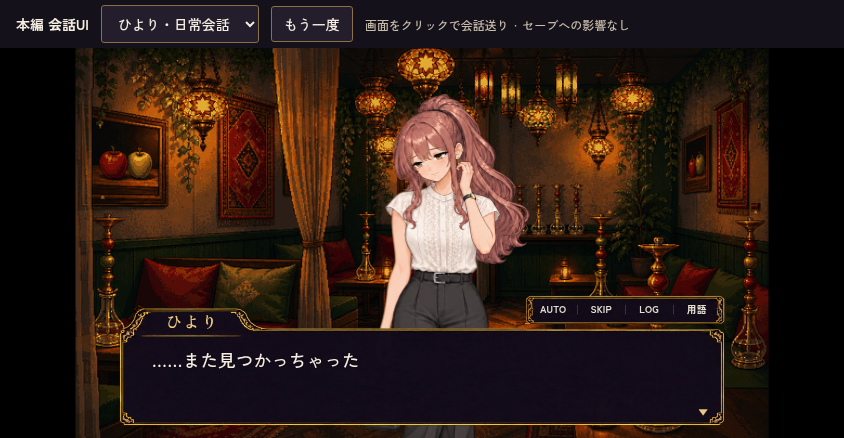
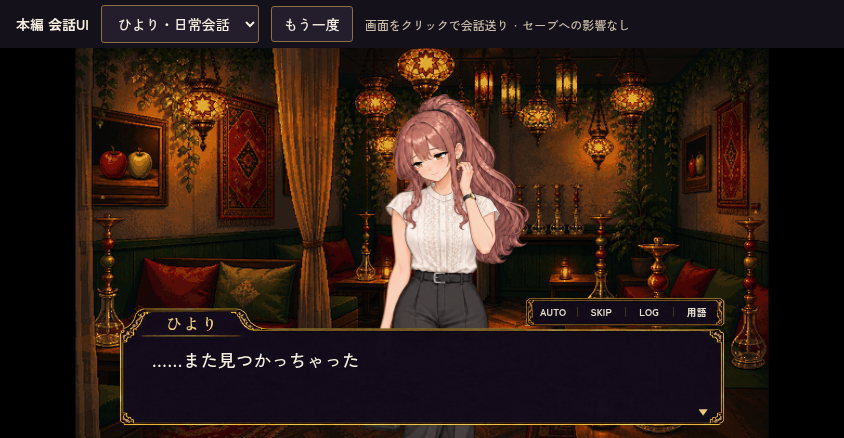
fix(vn): lower name and toolbar; make AUTO and SKIP exclusive

Changed region(s): [[0.6161, 0.653, 0.8626, 0.742], [0.1848, 0.7123, 0.2464, 0.7717]]

diff --git a/remake/js/vn/engine.js b/remake/js/vn/engine.js
@@ -67,6 +67,8 @@ function buildDom() {
   const ctl = (label, fn, test) => el("button.vn-ctl", { text: label, dataset: { test }, onclick: (e) => { e.stopPropagation(); fn(); } });
   dom.autoBtn = ctl("AUTO", () => setAuto(!autoMode), "vn-auto");
   dom.skipBtn = ctl("SKIP", () => setSkip(!skipMode), "vn-skip");
+  dom.autoBtn.setAttribute("aria-pressed", "false");
+  dom.skipBtn.setAttribute("aria-pressed", "false");
   dom.controls.append(dom.autoBtn, dom.skipBtn, ctl("LOG", openLog, "vn-log"), ctl("用語", openGlossary, "vn-glossary"));
   host.replaceChildren(dom.effect, dom.cg, dom.portraits, dom.box, dom.choices, dom.controls, dom.log);
   host.addEventListener("pointerup", (e) => {
@@ -85,11 +87,20 @@ function buildDom() {
   window.addEventListener("keyup", (e) => { if (e.key === "Control") setSkip(false); });
 }
 
-function setAuto(v) { autoMode = v; dom?.autoBtn.classList.toggle("on", v); if (v) kickAuto(); }
+function setAuto(v) {
+  if (v) setSkip(false);
+  autoMode = v;
+  dom?.autoBtn.classList.toggle("on", v);
+  dom?.autoBtn.setAttribute("aria-pressed", String(v));
+  clearTimeout(autoTimer);
+  if (v) kickAuto();
+}
 function setSkip(v) {
+  if (v) setAuto(false);
   skipMode = v;
   document.body.classList.toggle("vn-skip", v);
   dom?.skipBtn.classList.toggle("on", v);
+  dom?.skipBtn.setAttribute("aria-pressed", String(v));
   clearTimeout(autoTimer);
   if (v && running?.typing) completeTyping();
   if (v || autoMode) kickAuto();

diff --git a/remake/css/vn-lounge.css b/remake/css/vn-lounge.css
@@ -33,7 +33,7 @@
 }
 .vn-box .vn-name {
   left: 31px;
-  top: -35px;
+  top: -31px;
   width: 210px;
   min-width: 0;
   height: 37px;
@@ -59,7 +59,7 @@
 }
 .vn-controls {
   right: 80px;
-  bottom: 210px; /* 本文上辺から10px。枠線を重ねない。 */
+  bottom: 206px; /* 本文上辺から6px。枠線を重ねない。 */
   width: 370px;
   height: 54px;
   padding: 5px 8px;

diff --git a/docs/qa/conversation-ui-741/README.md b/docs/qa/conversation-ui-741/README.md
@@ -1,13 +1,15 @@
 # 会話UIの本編適用と操作プレビュー (#741)
 
-ユーザーが承認した墨紫・細い金縁・一体型の名前欄・横一体の操作バーを本編共通VNに適用。本文の998px幅、178pxの枠高、改行・改ページ処理は維持。操作バーの下辺と本文上辺は10px離す。名前は同梱のZen Old Mincho Bold（OFL）で可変表示し、長い呼び名は文字数に合わせて縮小する。その他のパネルやゲームの台本は変更しない。
+ユーザーが承認した墨紫・細い金縁・一体型の名前欄・横一体の操作バーを本編共通VNに適用。本文の998px幅、178pxの枠高、改行・改ページ処理は維持。操作バーの下辺と本文上辺は6px離す。名前は同梱のZen Old Mincho Bold（OFL）で可変表示し、長い呼び名は文字数に合わせて縮小する。その他のパネルやゲームの台本は変更しない。
 
 `/remake/conversation-preview.html` は本編のengine.jsを読み、同じCSS/DOMで会話を再生する。保存済みデータは読み書きしない。ひよりは既存日常台本（冒頭の地の文を省略）、話者切替・地の文・選択肢はUI確認用例文。公開ゲーム本体のデプロイではなく、別URLの確認用ページ。
 
+本編プレビュー確認後の調整: 名前の文字を4px下へ、操作バーを4px下へ移動。本文枠からの間隔を6pxへ変更。AUTOとSKIPは排他にし、相手のモードを解除してからONにする。CtrlキーによるSKIPも同様。ボタンのaria-pressedを実状態と同期。
+
 検証（Chromium、2026-10-20）:
-- `CHROME_EXECUTABLE_PATH=/usr/lib/chromium/chromium BASE_URL=http://127.0.0.1:8134/remake/ node remake/test/browser/conversation_ui.mjs` — PC1280×768／横持ち844×438でPASS。10pxの間隔、本心の枠内表示、AUTO切替・SKIP・LOG・用語集・選択・名前切替・地の文、保存不変、JSエラー／HTTP失敗なし。
+- `CHROME_EXECUTABLE_PATH=/usr/lib/chromium/chromium BASE_URL=http://127.0.0.1:8134/remake/ node remake/test/browser/conversation_ui.mjs` — PC1280×768／横持ち844×438でPASS。6pxの間隔、本心の枠内表示、AUTO/SKIPの双方向排他・Ctrlキーでの排他と解除・OFF切替・LOG・用語集・選択・名前切替・地の文、保存不変、JSエラー／HTTP失敗なし。
 - 公開用に絞ったファイル一式でも同じ2ケースがPASS。
-- `CASE_FILTER=portrait-mobile node remake/test/vn_visual_readiness.mjs` — 本編入口で表情の読み込み待ちとSKIP停止がPASS。
+- `node remake/test/vn_visual_readiness.mjs` — 4ケースすべてPASS（PC／横持ちの表情読み込み待ち、CGフェードと選択停止、SKIP中の場面転換）。
 - 本編index.htmlを起動して日常会話を再生。DS表示も1280×720／844×390／390×844で名前欄・操作バーが画面内に収まることを確認。
 - `git diff --check`、`./tools/check_git_safety.sh` — PASS。
 

diff --git a/assets/ui/vn-lounge/README.md b/assets/ui/vn-lounge/README.md
@@ -2,6 +2,6 @@
 
 ユーザー採用の会話UIを本編の可変文字・操作に分離。`approved-reference.png` は承認済みの文字入り原画、`empty-source.png` はその文字・区切り・次へ印だけを除くよう画像生成で編集した原画。ツール: OpenAI image_gen、2026-10-20。外側は透過。
 
-実装先: `remake/css/vn-lounge.css`。`remake/img/ui/vn-lounge/` のSVGは原画をWebP可逆圧縮して内包し、切り出し領域だけを表示。本文・名前・操作文字・次へ印は本編DOM。本文の幅・高さ・改ページ仕様を維持する。操作枠は本文上辺から10px離す（採用プレビューの最終位置）。
+実装先: `remake/css/vn-lounge.css`。`remake/img/ui/vn-lounge/` のSVGは原画をWebP可逆圧縮して内包し、切り出し領域だけを表示。本文・名前・操作文字・次へ印は本編DOM。本文の幅・高さ・改ページ仕様を維持する。操作枠は本文上辺から6px離す（本編プレビュー確認後、4px下げた位置）。
 
 確認: `/remake/conversation-preview.html` は本編エンジンを使用。保存データの読み書きはしない。ひよりの場面は既存台本 `hiyori_shop_repeat_0` の導入の地の文を省いて再生し、ほか3場面はUI確認用の例文。物語の台本は変更しない。
